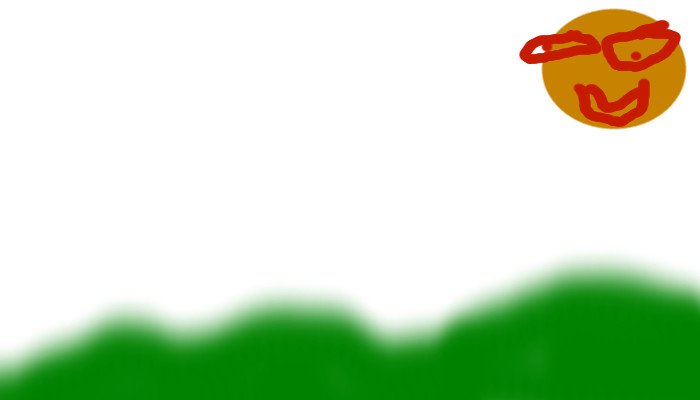
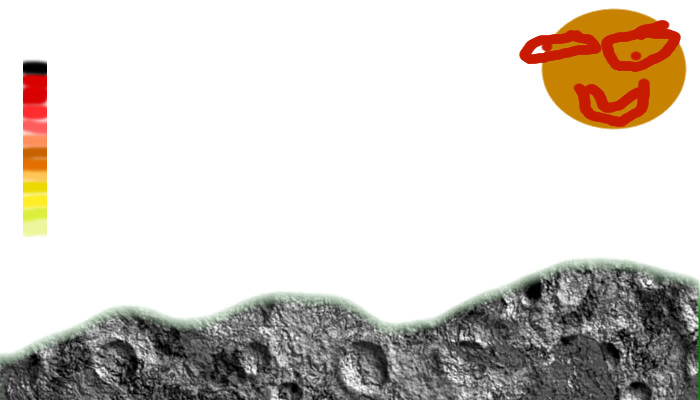
Now we have an alien and we can chose power of shut

Changed region(s): [[0.0, 0.63, 1.0, 1.0], [0.03, 0.15, 0.09, 0.6]]

diff --git a/game_objects.py b/game_objects.py
@@ -4,6 +4,9 @@ from pygame.math import Vector2
 import math
 
 
+def get_angle(pos):
+	return 90 + ((math.atan2(pos[0]-pygame.mouse.get_pos()[0], pos[1]-pygame.mouse.get_pos()[1] ))/2)*100
+
 class Rocket(pygame.sprite.Sprite):
 	speed = -10
 	def __init__(self, position):
@@ -83,15 +86,46 @@ class Tank(pygame.sprite.Sprite):
 
 		self.rect.move_ip((self.current_speed, 0))
 
+class Power_scale(pygame.sprite.Sprite):
+			max_speed = -4
+			MAX_DOWN = 450
+			MAX_UP = 250
+			def __init__(self):
+				super(Power_scale, self).__init__()
+				self.image = pygame.image.load('assets/power.jpg')
+				self.rect = self.image.get_rect()
+				self.rect.midbottom = (30, 450)
+				self.power = 0
+
+
+			def update(self):
+				keys = pygame.key.get_pressed()
+				mkeys = pygame.mouse.get_pressed()
+				print(mkeys)
+
+				if self.rect.bottom > self.MAX_DOWN:
+					self.rect.bottom = (450)
+				elif self.rect.bottom < self.MAX_UP:
+					self.rect.bottom = (250)
+				elif self.rect.bottom <= self.MAX_DOWN and self.rect.bottom >= self.MAX_UP: 
+					if keys[pygame.K_UP]:
+						self.rect.move_ip(0, self.max_speed)
+					elif keys[pygame.K_DOWN]:
+						self.rect.move_ip(0, -self.max_speed)
+				self.power = 20 - (self.rect.bottom-250)/10
+
+				if keys[pygame.K_SPACE] or mkeys == MOUSE_BUTTON_LEFT:
+					self.rect.midbottom = (30, 450)
+			
 
 class Gun(Tank):
 	speed = 4
 	cooldown = 10
 	current_cooldown = 0
 	max_speed = 0.1
-	shooting_cooldown = 600
+	shooting_cooldown = 400
 	
-	def __init__(self, pos, shells):
+	def __init__(self, pos, shells, screen, power):
 		super(Gun, self).__init__()
 		self.image = pygame.image.load('assets/gun.png')
 		self.orig_image = self.image  # Store a reference to the original.
@@ -99,6 +133,8 @@ class Gun(Tank):
 		self.pos = Vector2(pos)
 		self.shells = shells
 		self.current_shooting_cooldown = 0
+		self.screen = screen
+		self.power = power
 
 	def update(self):
 		if self.current_cooldown <= 0:
@@ -118,8 +154,10 @@ class Gun(Tank):
 		else:
 			self.current_speed = 0
 
-		self.rect.move_ip((self.current_speed, 0))
- 	
+		self.rect.move_ip((self.current_speed, 0)) 	
+
+		self.power.power
+		# print(self.power.power)
 
 	def rotate(self):
 		 # The vector to the target (the mouse position).
@@ -137,29 +175,38 @@ class Gun(Tank):
 
 	def process_shooting(self):
 		keys = pygame.key.get_pressed()
-		if keys[pygame.K_SPACE] and self.current_shooting_cooldown <= 0:
+		mkeys = pygame.mouse.get_pressed()
+		
+
+		if keys[pygame.K_SPACE] or mkeys == MOUSE_BUTTON_LEFT:
+			if  self.current_shooting_cooldown <= 0:
 			# self.rocket_sound.play()
 			# print('yes')
-			self.shells.add(Shell(self.rect.topright))
-			self.current_shooting_cooldown = self.shooting_cooldown
+
+				angl = get_angle(self.rect.topright)
+				self.shells.add(Shell(self.rect.topright, angl, self.power.power))
+				self.current_shooting_cooldown = self.shooting_cooldown
+		# elif keys[pygame.K_UP]: 
 
 		else:
-			self.current_shooting_cooldown -= 10
+			self.current_shooting_cooldown -= 20
+
 		for shell in list(self.shells):
-			if shell.rect.bottom < 0:
+
+			if len(self.shells)+1  >= 5:	#max №-1 shells on field
+				print(self.shells)
 				self.shells.remove(shell)
-			
-		# for shell in list(self.shells):
-		# 	if rocket.rect.bottom < 0:
-		# 		self.rockets.remove(rocket)
+
 			
 
+
 class Shell(pygame.sprite.Sprite):
+
 	# speed = -11
 	# t = 2
-	v= 11
+	
 	g= 9.81 
-	def __init__(self, position):
+	def __init__(self, position, angl, power):
 		super(Shell, self).__init__()
 		self.image = pygame.image.load('assets/shell.png')
 		self.rect = self.image.get_rect()
@@ -167,23 +214,28 @@ class Shell(pygame.sprite.Sprite):
 		self.rect.midbottom = position
 		self.y= position[1]
 		self.x= position[0]
-		# self.angle = 85
+		self.angle = angl
 		self.t = 0
+		self.v = power
 		# self.starting_shell = [self.x, self.y]
 
 	def update(self):
-		direction = pygame.mouse.get_pos() - self.pos
+		# direction = pygame.mouse.get_pos() - self.pos
 		# .as_polar gives you the polar coordinates of the vector,
 		# i.e. the radius (distance to the target) and the angle.
-		radius, anglee = direction.as_polar()
+		# radius, anglee = direction.as_polar()
 
 		# self.angle = anglee
-		self.angle = 90 + ((math.atan2(self.pos[0]-pygame.mouse.get_pos()[0], self.pos[1]-pygame.mouse.get_pos()[1] ))/2)*100
 
 
 
-		print(self.angle)
-		if self.t <4: 
+		# print(self.angle)
+		if self.rect.centery >= HEIGHT-50: 
+			self.rect.center= (self.x, self.y)
+		# if self.rect.right >= WIDTH: 
+		# 	self.rect.midbottom = (self.x, self.y-35)
+		
+		else:
 			self.rect.center = (self.x, self.y)
 			# self.x = self.x + self.v*self.t*math.cos(self.angle*(math.pi/180 )) 
 			# self.y -= self.v*self.t*math.sin(self.angle*(math.pi/180 )) -(self.g*self.t**2)/2 	
@@ -191,7 +243,7 @@ class Shell(pygame.sprite.Sprite):
 			self.x = self.x + self.v*self.t*math.cos(self.angle*(math.pi/180 )) 
 			self.y -= self.v*self.t*math.sin(self.angle*(math.pi/180 )) -(self.g*self.t**2)/2 	
 			
-			self.t += 0.03
+			self.t += 0.05 
 		# if self.y >= HEIGHT or self.x >= WIDTH:
 			
 		# else:	
@@ -210,6 +262,9 @@ class Shell(pygame.sprite.Sprite):
 		# self.rect.move_ip(2, 2)
 		# self.rect 
 		# print(self.x, self.y)
+
+	
+
 
 
 class Background(pygame.sprite.Sprite):
@@ -239,6 +294,20 @@ class Cloud(pygame.sprite.Sprite):
 
 		if self.rect.left >= self.rect.width:
 			self.rect.right = 0
+
+class Alien(pygame.sprite.Sprite):
+	"""docstring for Alien"""
+	def __init__(self):
+		super(Alien, self).__init__()
+		self.image = pygame.image.load('assets/alien.png')
+		self.rect = self.image.get_rect()
+		self.rect.center = (WIDTH-110,  HEIGHT -170)
+
+	def update(self):
+		pass
+		
+
+
 class Meteorit(pygame.sprite.Sprite):
 	cooldown = 250
 	current_cooldown = 0

diff --git a/test.py b/test.py
@@ -13,11 +13,17 @@ explode_anim = pyganim.PygAnimation([
 	('assets/meteor_exp{}.png'.format(1), 50) for i in range(17)
 	], loop = False)
 
+game_over_image = pygame.image.load('assets/game_over_bg.jpg')
+def game_over(x, y):
+	screen.blit(game_over_image, (x, y))
+
+
 # Game Groups
 all_objects = pygame.sprite.OrderedUpdates()
 rockets = pygame.sprite.Group()
 meteors = pygame.sprite.Group()
 shells = pygame.sprite.Group()
+
 
 explosions = []
 
@@ -30,16 +36,20 @@ background = Background()
 cloud1 = Cloud('assets/cloud1.png', 2)
 cloud2 = Cloud('assets/cloud2.png', 1.5)
 tank = Tank()
+alien = Alien()
+power = Power_scale()
 
-gun = Gun((137, HEIGHT-80), shells)
+gun = Gun((137, HEIGHT-80), shells, screen, power)
 # rocket = Rocket(player.rect.midtop)
 
 
 all_objects.add(background)
+all_objects.add(power)
 all_objects.add(cloud1)
 all_objects.add(cloud2)
 all_objects.add(tank)
 all_objects.add(gun)
+all_objects.add(alien)
 
 # all_objects.add(player)
 # all_objects.add(Meteorit())
@@ -60,39 +70,49 @@ while True:
 		sys.exit()
 
 	screen.fill(WHITE)
+	shells_and_alien_collided = pygame.sprite.spritecollide(alien, shells, True)
 
-	# Meteorit.process_meteors(clock, meteors)
+	#game over
+	if shells_and_alien_collided:
+		all_objects.remove(alien)
+		
+		game_over(0,200)
+		pygame.display.flip()
+		pygame.time.wait(5000)
+	else:
 
-	all_objects.update()
-	rockets.update()
-	meteors.update()
-	shells.update()
-	meteors_and_bomb_collided = pygame.sprite.groupcollide(meteors, rockets, True, True)
-	for collied in meteors_and_bomb_collided:
-		explosion = explode_anim.getCopy()
-		explosion.play()
-		explosions.append((explosion, (collied.rect.center)))
+		# Meteorit.process_meteors(clock, meteors)
 
-	player_and_metor_collided = pygame.sprite.spritecollide(player, meteors, True)
-
-	if player_and_metor_collided:
-		all_objects.remove(player) 
-
-	all_objects.draw(screen)
-	rockets.draw(screen)
-	meteors.draw(screen)
-	shells.draw(screen)
+		all_objects.update()
+		rockets.update()
+		meteors.update()
+		shells.update()
+		meteors_and_bomb_collided = pygame.sprite.groupcollide(meteors, rockets, True, True)
 
 
-	for explosion, position in explosions.copy():
-		if explosion.isFinished():
-			# print(explosions)
-			# print('/************************/')
-			# print(explosion)
-			explosions.remove((explosion, position))
-		else:
-			x, y = position
-			explosion.blit(screen, (x-30, y-50))
+		for collied in meteors_and_bomb_collided:
+			explosion = explode_anim.getCopy()
+			explosion.play()
+			explosions.append((explosion, (collied.rect.center)))
 
-	pygame.display.flip()
-	clock.tick(30)
+		player_and_metor_collided = pygame.sprite.spritecollide(player, meteors, True)
+
+
+		all_objects.draw(screen)
+		rockets.draw(screen)
+		meteors.draw(screen)
+		shells.draw(screen)
+
+
+		for explosion, position in explosions.copy():
+			if explosion.isFinished():
+				# print(explosions)
+				# print('/************************/')
+				# print(explosion)
+				explosions.remove((explosion, position))
+			else:
+				x, y = position
+				explosion.blit(screen, (x-30, y-50))
+
+		pygame.display.flip()
+		clock.tick(30)

diff --git a/settings.py b/settings.py
@@ -1,2 +1,3 @@
 SIZE = (WIDTH, HEIGHT) = (700, 600)
 WHITE = (255, 255, 255)
+MOUSE_BUTTON_LEFT = (1, 0, 0)
